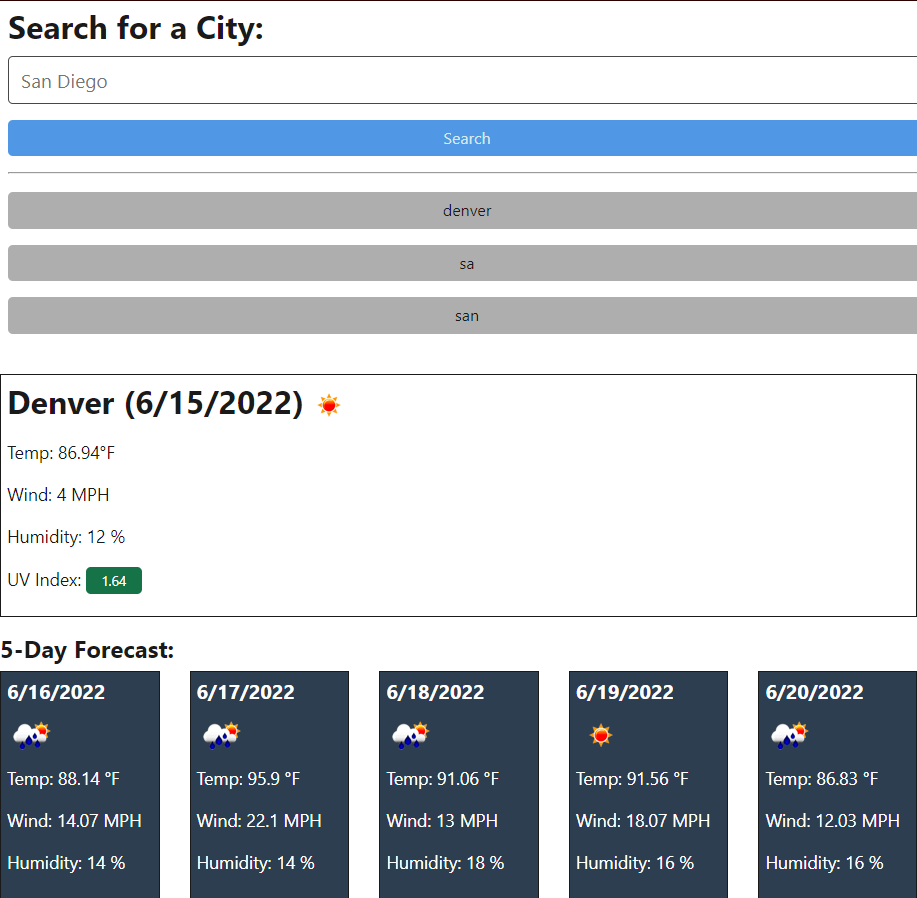
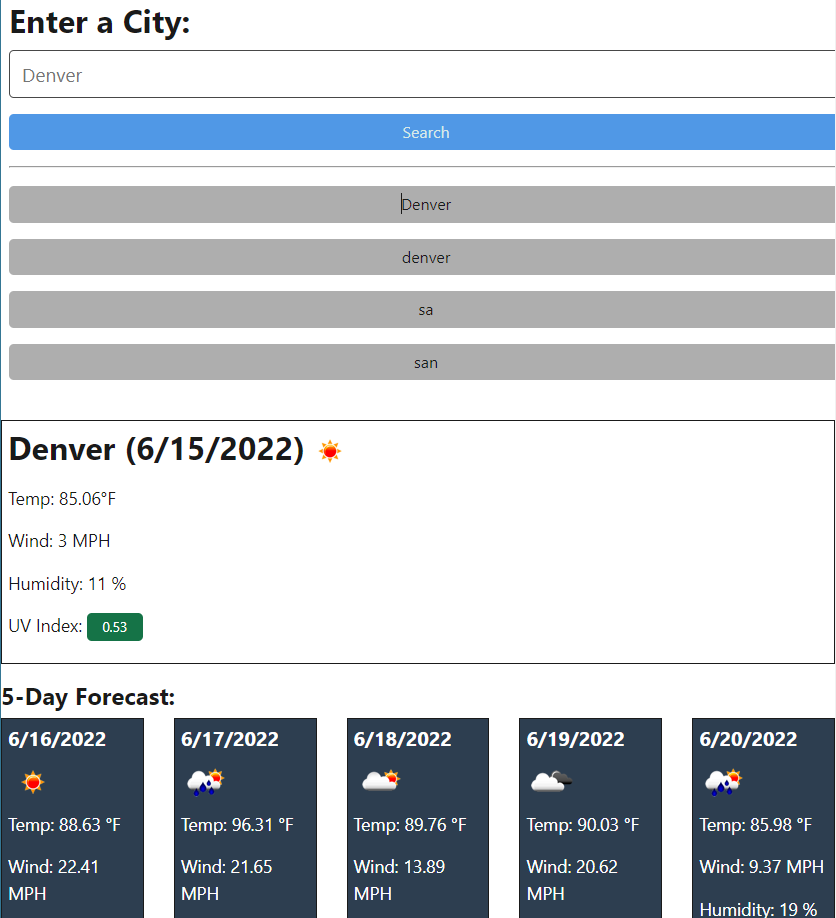
added readme

Changed region(s): [[0.0, 0.0, 1.0, 1.0]]

diff --git a/index.html b/index.html
@@ -20,7 +20,7 @@
       <div class="row">
         <aside class="col-lg-3 pb-3">
           <h2 id="form-heading" class="mt-1 h3 form-label">
-            Search for a City:
+            Enter a City:
           </h2>
           <form id="search-form" class="form">
             <div class="form-inline form-group">
@@ -29,7 +29,7 @@
                   class="form-input weather-search"
                   type="text"
                   id="search-input"
-                  placeholder="San Diego"
+                  placeholder="Denver"
                   aria-labelledby="form-heading"
                   aria-controls="today forecast"
                 />

diff --git a/README.md b/README.md
@@ -1,0 +1,10 @@
+# Weather Dashboard
+
+Description: 
+
+Weather Dashboard is an application that allows you to seach and query an api to find the local weather data 
+
+
+## Demo:
+
+![](./assets/images/Screenshot%202022-06-15%20191611.png)
